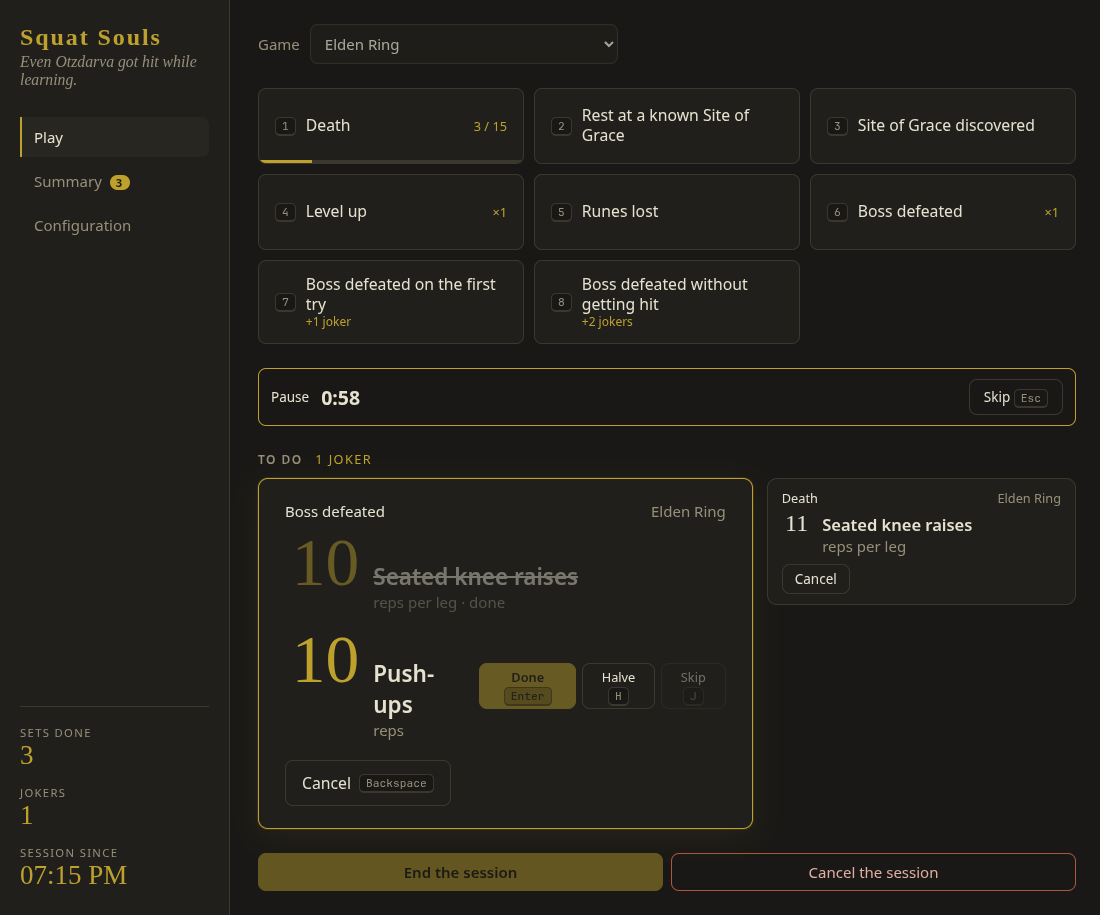
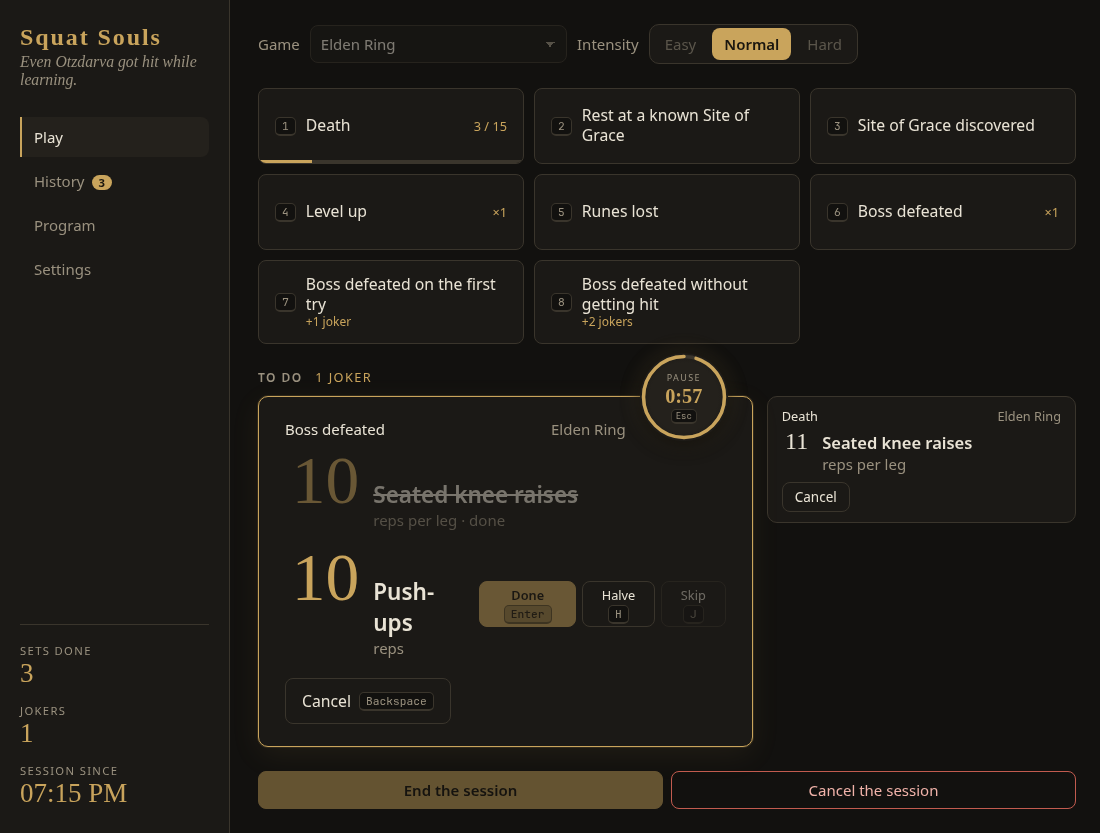
docs(readme): refresh the screenshots for the new tabs

diff --git a/README.md b/README.md
@@ -10,9 +10,13 @@ Turn what happens in your games into bodyweight exercises.
 
 ![Play tab with a set to do](docs/screenshots/play-set-to-do.png)
 
-| Pause | History | Program |
+| Pause | History | Settings |
 | --- | --- | --- |
-| ![Pause between two exercises](docs/screenshots/pause.png) | ![History tab](docs/screenshots/summary.png) | ![Program tab](docs/screenshots/configuration.png) |
+| ![Pause between two exercises](docs/screenshots/pause.png) | ![History tab](docs/screenshots/history.png) | ![Settings tab](docs/screenshots/settings.png) |
+
+| Program: games | Program: exercises |
+| --- | --- |
+| ![Games of the Program tab](docs/screenshots/program-games.png) | ![Exercises of the Program tab](docs/screenshots/program-exercises.png) |
 
 ## What is it
 
